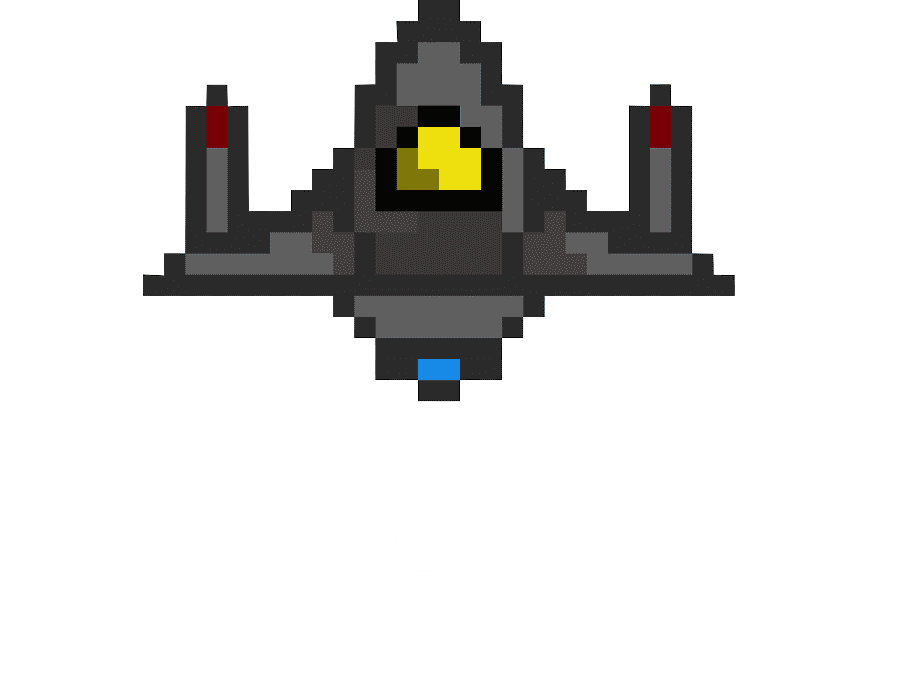
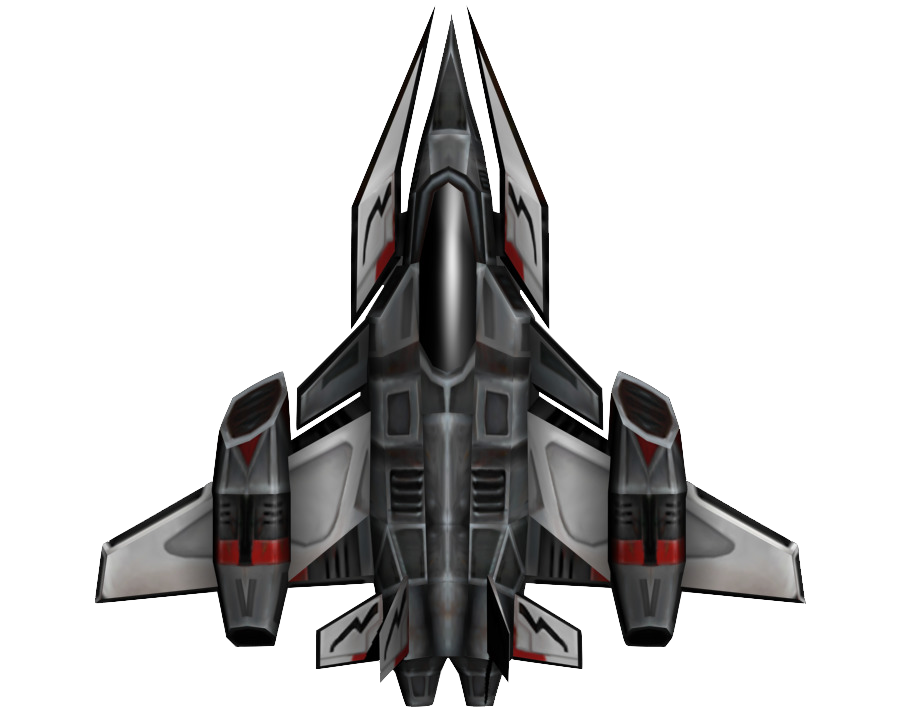
adaptation du jeu sur la page

diff --git a/js/main.js b/js/main.js
@@ -1,10 +1,19 @@
-const world = document.getElementById('game');
+const world = document.querySelector('#game');
 const c = world.getContext('2d');
-const tailleRef = world.width / 50;
 
+var btn = document.querySelector(".btn-play");
+
+world.width = window.innerHeight;
+world.height = window.innerHeight;
+const tailleRef = world.width/25;
 
 const imgVesseau = new Image();
-imgVesseau.src = 'img/Vesseau.png';
+imgVesseau.src = 'img/ship.png';
+
+
+let Continue = true;
+
+let Pause = true;
 
 class Player {
     constructor() {
@@ -16,12 +25,13 @@ class Player {
         }
         this.position = {
             x: (world.width - this.width) / 2,
-            y: world.height - this.height 
+            y: world.height - this.height*1.3
         }
     }
 
     draw() {
         c.drawImage(imgVesseau, this.position.x, this.position.y, this.width, this.height);
+        //c.fillRect(this.position.x, this.position.y, this.width, this.height);
     }
 
     update() {
@@ -37,24 +47,57 @@ const player = new Player();
 
 let frames = 0;
 
-AnimationLoop();
 
 function AnimationLoop() {
     requestAnimationFrame(AnimationLoop);
     c.clearRect(0, 0, world.width, world.height);
-    player.update();
+    if (Continue) {
+
+        if (Pause) {
+            // rendre le world invisible
+            world.setAttribute("display", "none");
+            console.log('pause');
+        } else {
+            player.update();
+        }
+
+
+
+    }
     frames++;
 }
+
+
+// methode jouer
+function Play() {
+    c.clearRect(0, 0, world.width, world.height);
+    console.log('play');
+    btn.parentNode.removeChild(btn);
+    Pause = false;
+    AnimationLoop();
+}  
+
+
+
+
+
+
+
+
+
+
+
+
 
 
 // EventListeners
 document.addEventListener('keydown', (event) => {
     switch (event.key) {
         case 'ArrowLeft':
-            player.velocity.x = -2;
+            player.velocity.x = -tailleRef/6;
             break;
         case 'ArrowRight':
-            player.velocity.x = 2;
+            player.velocity.x = tailleRef/6;
             break;
     }
 });
@@ -66,6 +109,9 @@ document.addEventListener('keyup', (event) => {
             break;
         case 'ArrowRight':
             player.velocity.x = 0;
+            break;
+        case 'Escape':
+            Pause();
             break;
     }
 });

diff --git a/game.html b/game.html
@@ -13,8 +13,9 @@
 <body>
     <div class="game">
         <canvas id="game""></canvas>
+        <Button  class="btn-play" onclick="Play()">PLAY</Button>
     </div>
-
+    
     <script src="/js/main.js"></script>
 </body>
 </html>

diff --git a/css/game.css b/css/game.css
@@ -23,6 +23,10 @@ body {
 
 #game {
     border: solid 1px white;
-    width: 80%;
     margin: 1em;
+}
+
+
+.btn-play {
+    position: absolute;
 }
